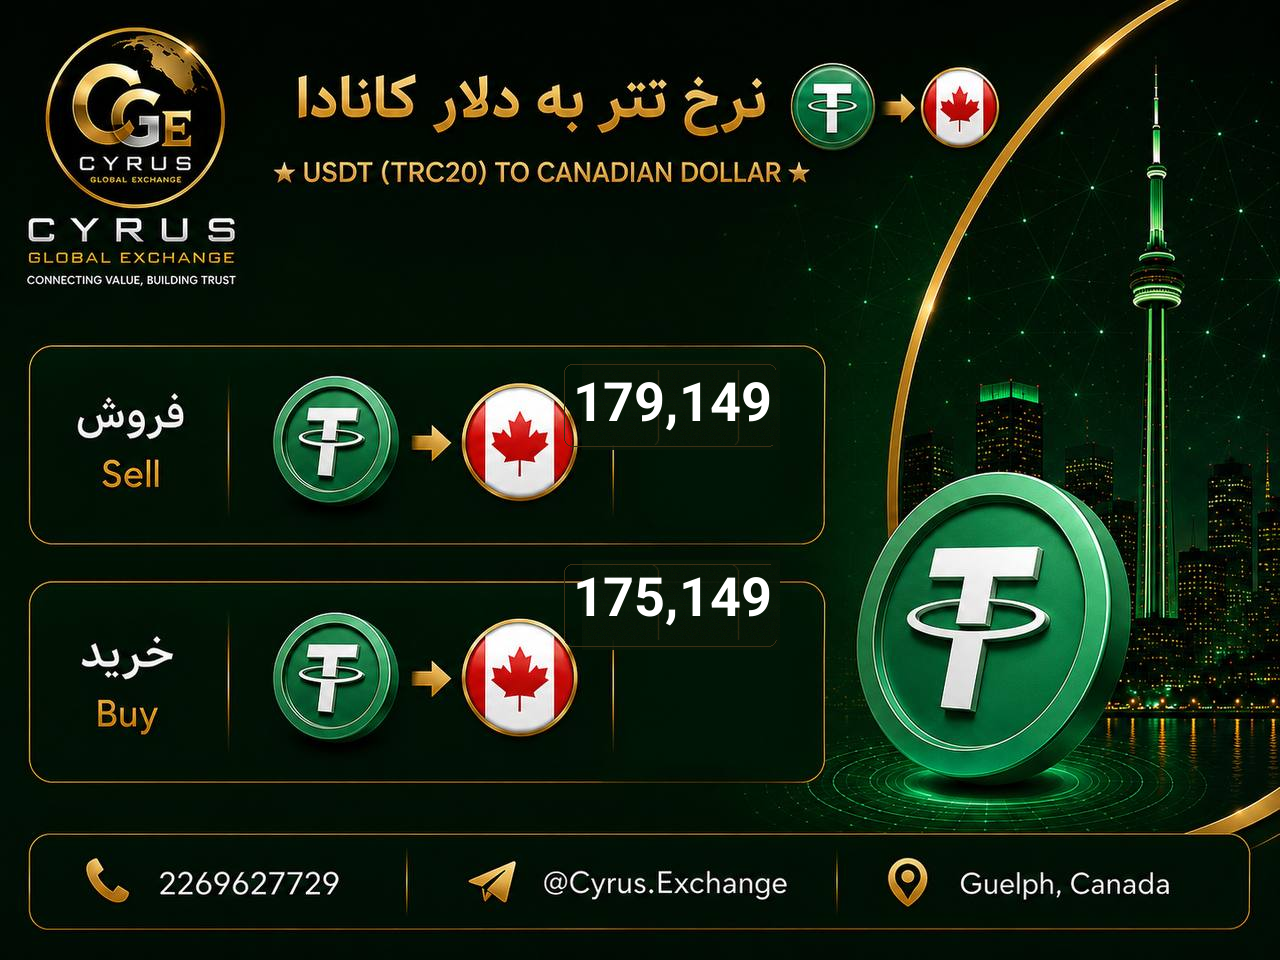
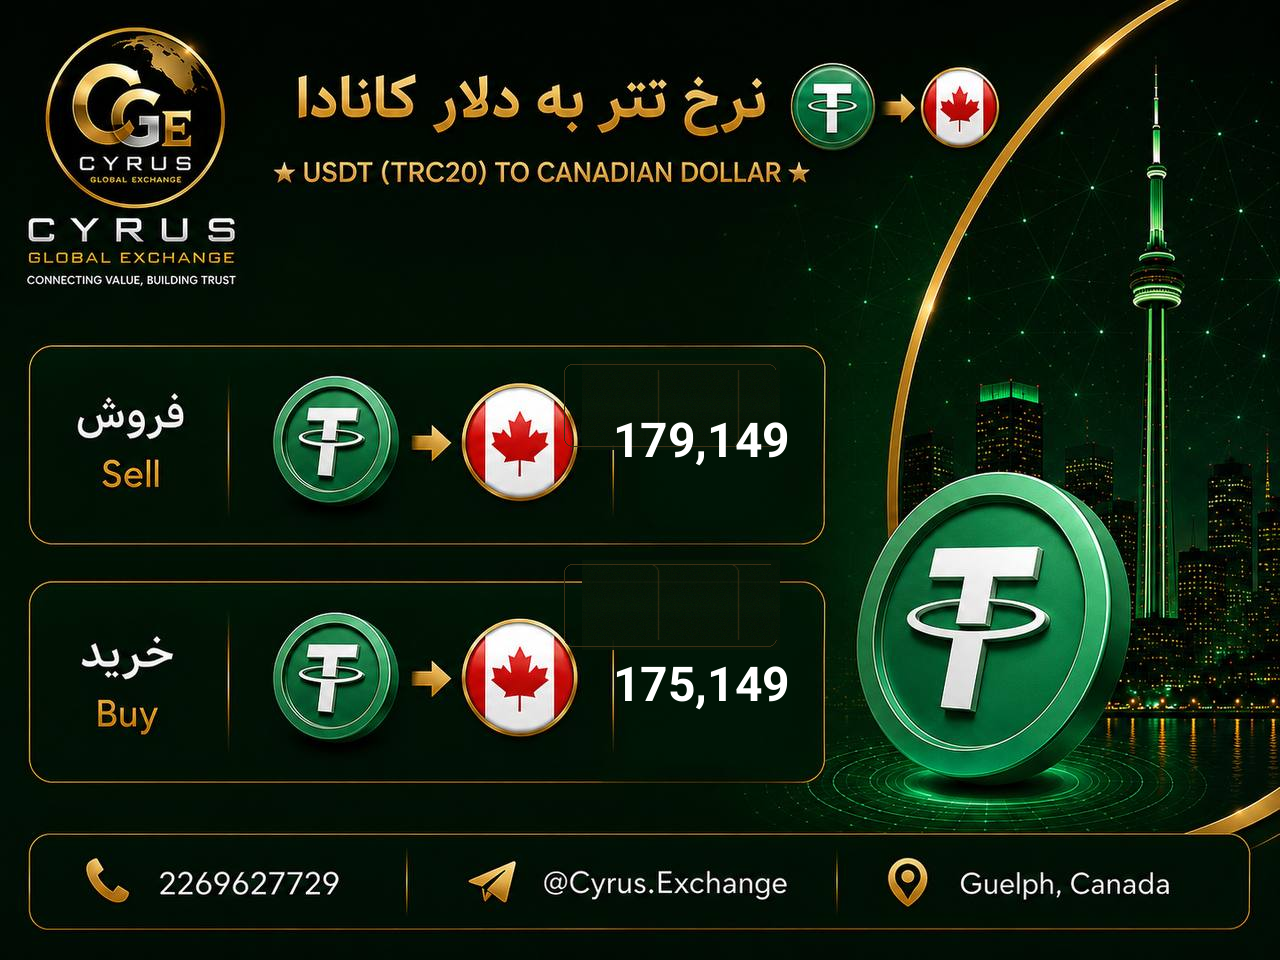
fix: pixel-accurate value boxes + textbbox-centered rendering for all posters
Replaced write_cell's shrink loop with _fit_font (textbbox 90%w/80%h) and
_draw_centered (mathematically positions text inside box using bbox offsets).
Remeasured all 4 template value zones pixel-by-pixel — CAD, USD, EUR, USDT
coordinates now match exact dark-box bounds from the original templates.
No background fills, shadows, or stickers; numbers render clean on templates.

Changed region(s): [[0.4375, 0.375, 0.625, 0.5], [0.4375, 0.5938, 0.625, 0.6562], [0.4688, 0.6875, 0.625, 0.75]]

diff --git a/rate_graphic_publisher.py b/rate_graphic_publisher.py
@@ -125,6 +125,27 @@ def _font(size: int) -> ImageFont.FreeTypeFont:
         return ImageFont.load_default()
 
 
+def _fit_font(draw: ImageDraw.ImageDraw, text: str, box_xywh: tuple,
+              max_size: int = 72, min_size: int = 32) -> ImageFont.FreeTypeFont:
+    """Return the largest font that fits text within 90% width and 80% height of box."""
+    x, y, w, h = box_xywh
+    for size in range(max_size, min_size - 1, -2):
+        font = _font(size)
+        bb   = draw.textbbox((0, 0), text, font=font)
+        if (bb[2] - bb[0]) <= w * 0.90 and (bb[3] - bb[1]) <= h * 0.80:
+            return font
+    return _font(min_size)
+
+
+def _draw_centered(draw: ImageDraw.ImageDraw, box_xywh: tuple,
+                   text: str, font, color: tuple) -> None:
+    """Draw text mathematically centered inside box (x, y, width, height)."""
+    x, y, w, h = box_xywh
+    bb = draw.textbbox((0, 0), text, font=font)
+    tx = x + (w - (bb[2] - bb[0])) / 2 - bb[0]
+    ty = y + (h - (bb[3] - bb[1])) / 2 - bb[1]
+    draw.text((tx, ty), text, font=font, fill=color)
+
 
 def write_cell(
     working:  Image.Image,
@@ -133,12 +154,10 @@ def write_cell(
     text:     str,
     color:    tuple = (255, 255, 255, 255),
     max_font: int = 60,
-    min_font: int = 14,
+    min_font: int = 32,
 ) -> None:
     x1, y1, x2, y2 = (int(v) for v in box)
     bw, bh = x2 - x1, y2 - y1
-    cx = (x1 + x2) / 2
-    cy = (y1 + y2) / 2
 
     # Restore clean master region (wipes any previous render)
     working.paste(master.crop((x1, y1, x2, y2)), (x1, y1))
@@ -146,14 +165,10 @@ def write_cell(
     if not text:
         return
 
-    draw    = ImageDraw.Draw(working)
-    font    = _font(max_font)
-    max_w   = bw - 10
-
-    while draw.textlength(text, font=font) > max_w and font.size > 12:
-        font = font.font_variant(size=font.size - 2)
-
-    draw.text((cx, cy), text, font=font, fill=color, anchor="mm")
+    draw     = ImageDraw.Draw(working)
+    box_xywh = (x1, y1, bw, bh)
+    font     = _fit_font(draw, text, box_xywh, max_size=max_font, min_size=min_font)
+    _draw_centered(draw, box_xywh, text, font, color)
 
 
 # ─────────────────────────────────────────────────────────────────────────────
